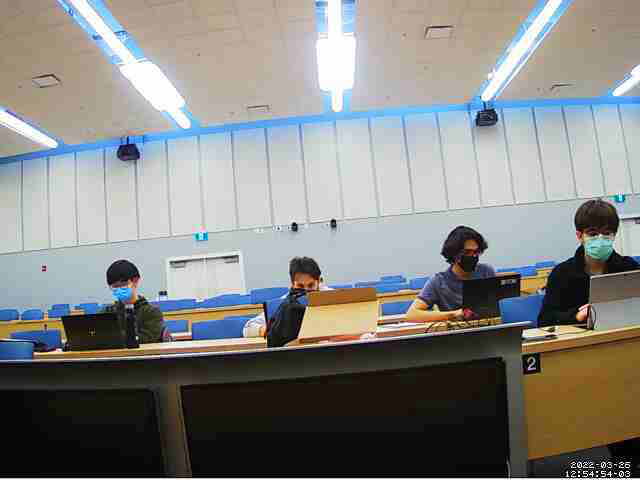
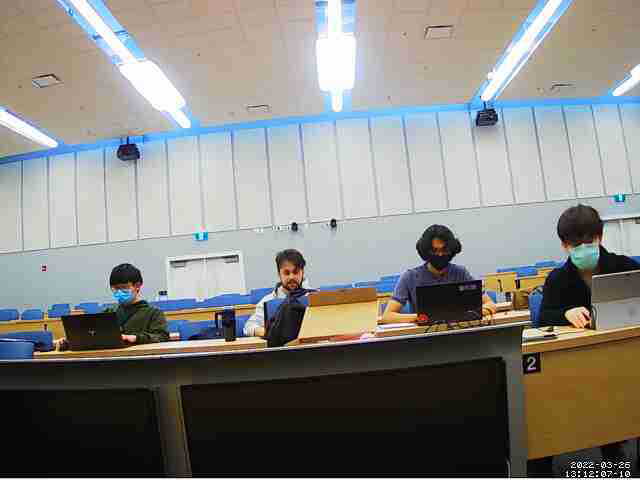
Improved client and server code

diff --git a/NEWclient.py b/NEWclient.py
@@ -4,11 +4,17 @@ import cv2
 import numpy as np
 from PIL import Image
 import time
+from io import BytesIO
+import io
+
+cap = cv2.VideoCapture('http://192.168.92.154:8081/')
 
 async def hello():
     uri = "ws://10.93.48.157:443"
     async with websockets.connect(uri) as websocket:
+        # await asyncio.sleep(1)
         name = input("What's your name? ")
+        
 
         await websocket.send(name)
         print(f">>> {name}")
@@ -17,14 +23,44 @@ async def hello():
         print(f"<<< {greeting}")
 
         while True:
-            with open('webcamimage.png', 'rb') as f:
-                await websocket.send(f.read())
-                print("Sent image")
+            # with open('webcamimage.png', 'rb') as f:
+            #     await websocket.send(f.read())
+            #     print("Sent image")
+            ret, cvFrame = cap.read()
+            img = cv2.cvtColor(cvFrame, cv2.COLOR_BGR2RGB)
+            pillowImage = Image.fromarray(img)
+
+            img_byte_arr = io.BytesIO()
+            pillowImage.save(img_byte_arr, format='PNG')
+            img_byte_arr = img_byte_arr.getvalue()
+
+            await websocket.send(img_byte_arr)
+
+            # await websocket.send(cvFrame)
+            print("Sent")
             
-            time.sleep(0.1)
+            await asyncio.sleep(0.1)
+
+async def getFrames():
+    while True:
+        ret, cvFrame = cap.read()
+        cv2.imshow('Video', cvFrame)
+        if cv2.waitKey(1) == 27:
+            exit(0)
+        await asyncio.sleep(0.01)
+
+
+async def main():
+    while True:
+        f1 = loop.create_task(hello())
+        f2 = loop.create_task(getFrames())
+        await asyncio.wait([f1, f2])
+        # await asyncio.wait([f1])
 
 if __name__ == "__main__":
-    asyncio.run(hello())
+    loop = asyncio.get_event_loop()
+    loop.run_until_complete(main())
+    loop.close()
 
 # PI: 192.168.92.182
 

diff --git a/NEWserver.py b/NEWserver.py
@@ -10,6 +10,14 @@ async def hello(websocket):
     await websocket.send(greeting)
     print(f">>> {greeting}")
 
+    while True:
+        image = await websocket.recv()
+        # print(image)
+        print("Got image")
+
+        with open('received_file123.png', 'wb') as f:
+            f.write(image)
+
 async def main():
     async with websockets.serve(hello, "10.93.48.157", 443):
         await asyncio.Future()  # run forever
